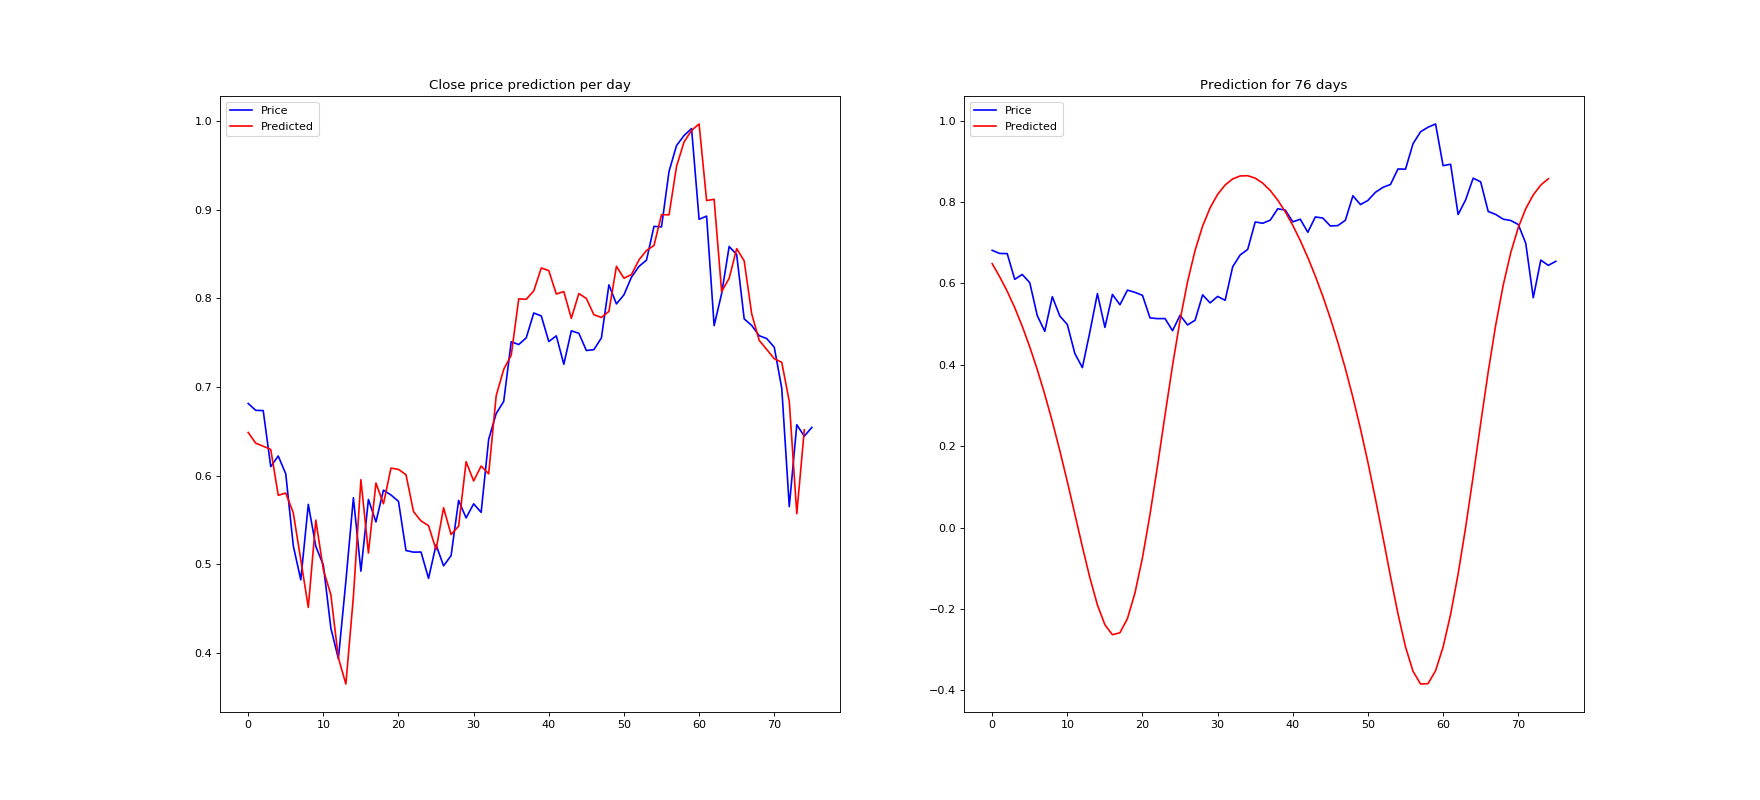
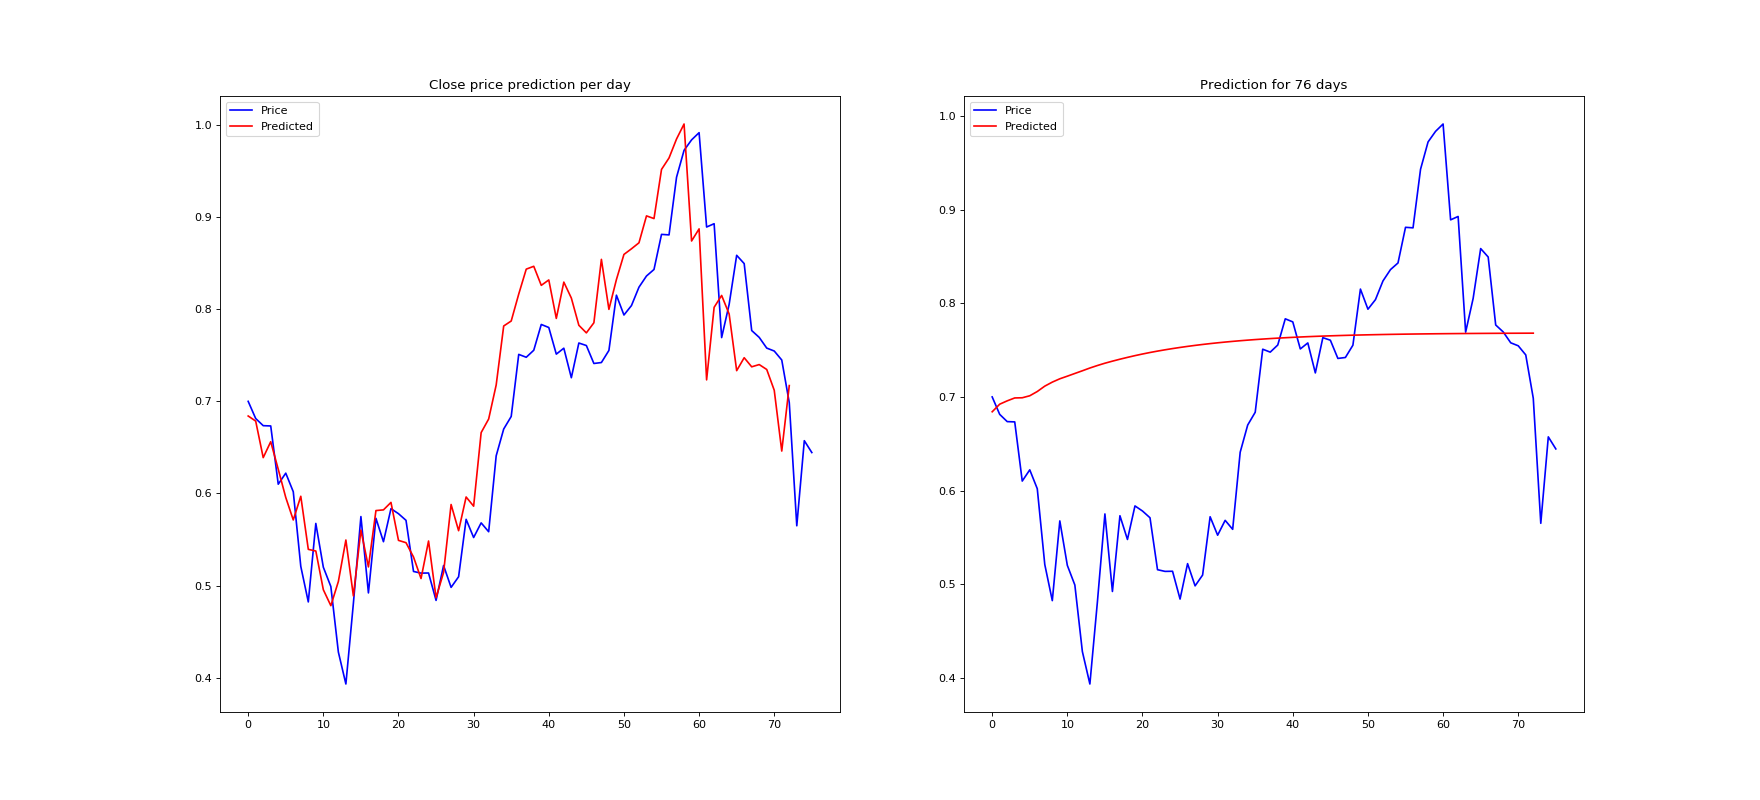
Modifications to stock prediciton

diff --git a/models/tensorflow_tests/stock_predictor.py b/models/tensorflow_tests/stock_predictor.py
@@ -12,10 +12,10 @@ infile = "TSLA_alltargets.csv"
 infolder = "stock"
 
 learning_rate = 0.001
-num_epochs = 100
+num_epochs = 300
 batch_size = 1
 train_size = 0.9
-truncated_backprop_length = 1
+truncated_backprop_length = 3
 state_size = 12
 num_features = 4
 num_classes = 4
@@ -115,14 +115,19 @@ def train_and_test( loss, train_step, prediction, last_label, last_state,
             if test_idx == 0:
                 testBatchX = xTest[test_idx:test_idx+truncated_backprop_length,:].reshape((1, truncated_backprop_length, num_features))
                 testBatchY = yTest[test_idx:test_idx+truncated_backprop_length].reshape((1, truncated_backprop_length, num_classes))
+                testBatchX = testBatchX.tolist()
+                testBatchY = testBatchY.tolist()
+                test_days_pred_list.append(testBatchY[0][-1][0])
             else:
-                testBatchX = test_pred.reshape([1, truncated_backprop_length, num_features])
-                testBatchY = test_pred[0].reshape([1, truncated_backprop_length, num_classes])
+                test_pred = test_pred[0].tolist()
+                testBatchX[0].append(test_pred)
+                testBatchX[0].pop(0)
+                testBatchY = testBatchX
 
-            feed = {batchX_placeholder : testBatchX,
-                    batchY_placeholder : testBatchY}
+            feed = {batchX_placeholder : testBatchX}
 
-            _last_state, _last_label, test_pred = sess.run([last_state, last_label, prediction], feed_dict=feed)
+            #_last_state, _last_label, test_pred = sess.run([last_state, last_label, prediction], feed_dict=feed)
+            test_pred = prediction.eval(feed_dict=feed)
             test_days_pred_list.append(test_pred[-1][0])
 
         # Test per day
